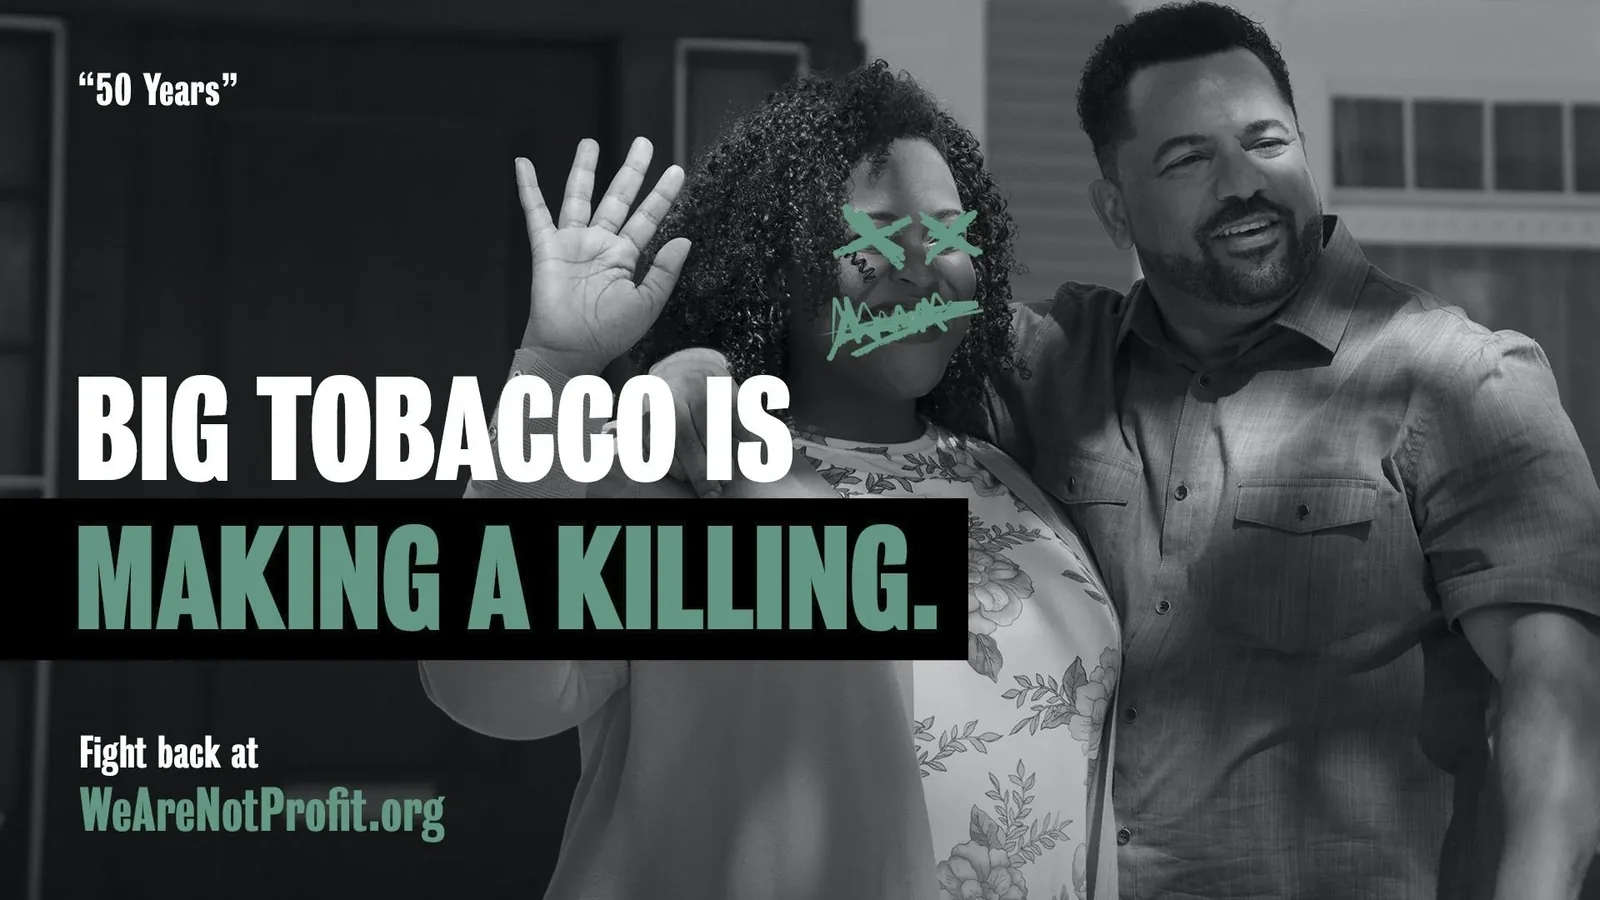
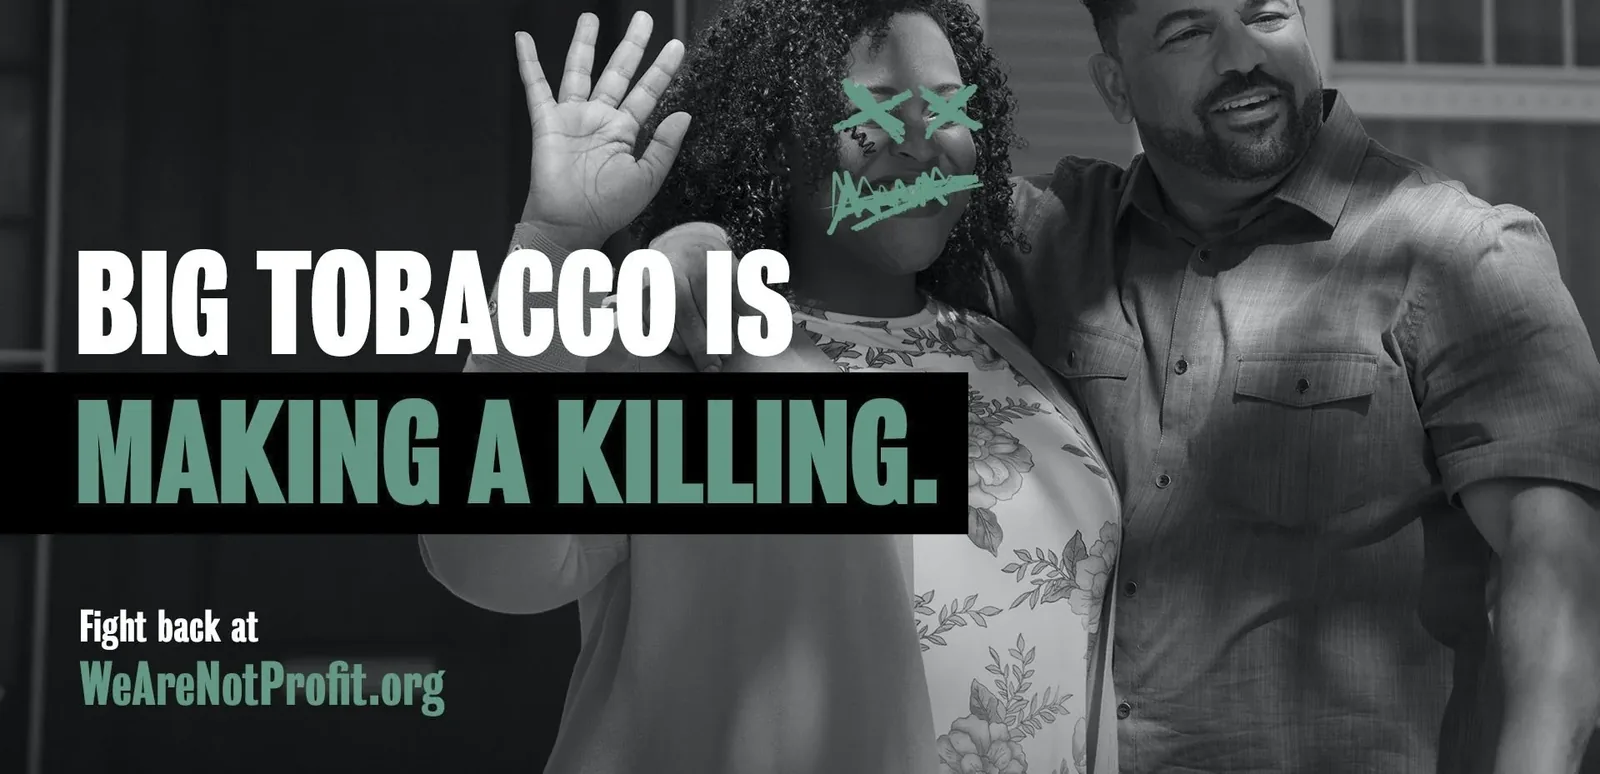
People Not Profit: endframes without titles or captions
Claude-Session: https://claude.ai/code/session_01J6zNVSSb4M7fm3CFMRqH3A

diff --git a/pages/people-not-profit.html b/pages/people-not-profit.html
@@ -299,8 +299,8 @@ html,body{margin:0;background:#0A0A0A}
 <button class="lk" type="button"><span class="pl">Play Film</span><span class="tt">Fallen Hero<small>Sixty Seconds</small></span></button>
 </div>
 <div class="ef">
-<figure class="rv d1"><img src="https://raw.githubusercontent.com/manicpixiedigifairy/nina-site/main/assets/pnp-film-family-tree.webp?v=1" alt="" role="img" aria-label="Family Tree endframe: three generations on a couch with a newborn, the father's eyes and mouth scribbled out in green, with the line Big Tobacco Is Making A Killing" width="1600" height="900"><figcaption class="cap"><b>Endframe</b>Family Tree</figcaption></figure>
-<figure class="rv d2"><img src="https://raw.githubusercontent.com/manicpixiedigifairy/nina-site/main/assets/pnp-film-50-years.webp?v=1" alt="" role="img" aria-label="Fifty Years endframe: a couple waves from their porch, the woman's eyes and mouth scribbled out in green, with the line Big Tobacco Is Making A Killing" width="1600" height="900"><figcaption class="cap"><b>Endframe</b>Fifty Years</figcaption></figure>
+<figure class="rv d1"><img src="https://raw.githubusercontent.com/manicpixiedigifairy/nina-site/main/assets/pnp-film-family-tree.webp?v=2" alt="" role="img" aria-label="Family Tree endframe: three generations on a couch with a newborn, the father's eyes and mouth scribbled out in green, with the line Big Tobacco Is Making A Killing" width="1600" height="774"></figure>
+<figure class="rv d2"><img src="https://raw.githubusercontent.com/manicpixiedigifairy/nina-site/main/assets/pnp-film-50-years.webp?v=2" alt="" role="img" aria-label="Fifty Years endframe: a couple waves from their porch, the woman's eyes and mouth scribbled out in green, with the line Big Tobacco Is Making A Killing" width="1600" height="774"></figure>
 </div>
 <div class="sub rv"><h3>More Voices</h3><p>We extended the campaign as targeted digital, radio, and paid DSP placements using influential voices.</p></div>
 <div class="vg">
